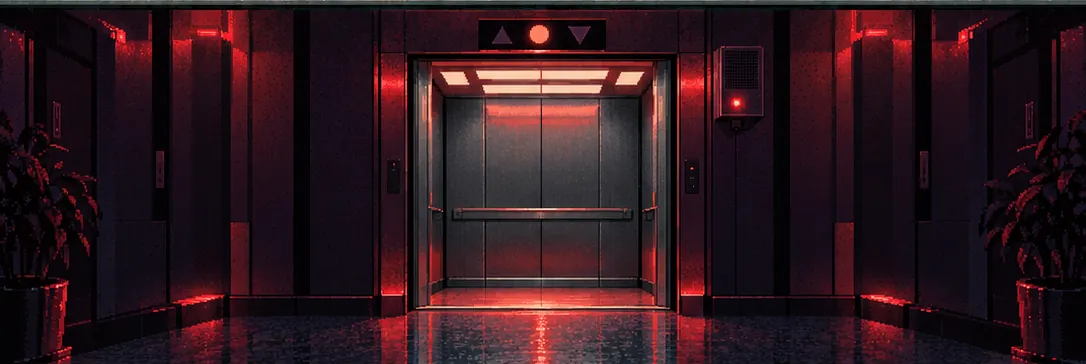
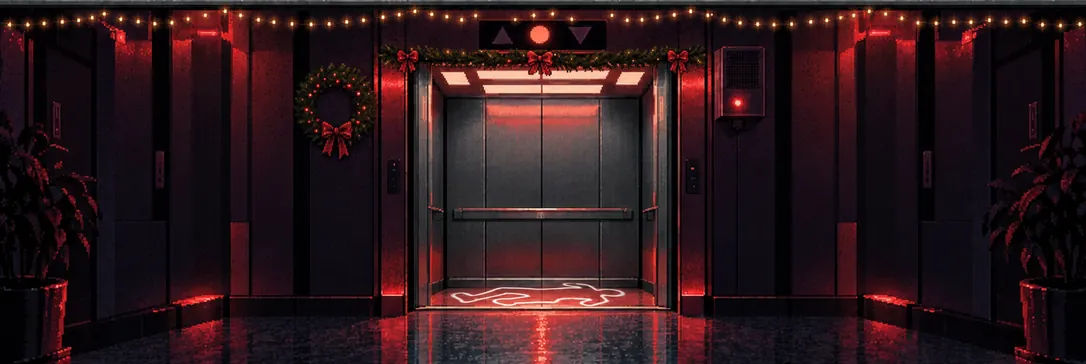
web, game: the captain's office computer on the title screen, a body outline and decorations in the incident elevator, and the Cocoa Hour as just the holiday party, not a quota reward

diff --git a/web/SPOILERS-content.js b/web/SPOILERS-content.js
@@ -1,7 +1,6 @@
 // SPOILERS: generated from game/SPOILERS-content/ by web/build.py. Don't edit by hand.
 // The reveal is base64-encoded JSON; the page decodes it only after the player accuses.
 window.DJ_CONTENT = {
- "banner": "  T  H  E\n ___   ___  ___  ___    _    _  _  _____        _    _    ____  ____\n|   \\ | __|| __||_ _|  /_\\  | \\| ||_   _|    _ | |  /_\\  |_  / |_  /\n| |) || _| | _|  | |  / _ \\ | .` |  | |     | || | / _ \\  / /   / /\n|___/ |___||_|  |___|/_/ \\_\\|_|\\_|  |_|      \\__/ /_/ \\_\\/___| /___|\n                                                  I N C I D E N T",
  "suspects": {
   "agnes": "Agnes",
   "bertram": "Bertram",
@@ -26,7 +25,7 @@ window.DJ_CONTENT = {
  },
  "coldOpen": {
   "title": "The Defiant Jazz Incident",
-  "body": "**We need your help to solve a murder.**\n\n*Tonight, our night supervisor, Mr. Hale, was found dead in the elevator, and the woman standing over him was holding a cable.*\n\n> Incident File SF-1008\n> KIPSAKE · SLEEP FLOOR · OFFICE OF FLOOR SECURITY\n> Subject: Death of Mr. Reginald Hale, Night Supervisor\n\n**What happened that night**\n\n- **02:58.** Three sleepwalkers work the night shift on Kipsake's Sleep Floor: Agnes, Bertram and Clement, the clerks of Deep Sleep Operations. They met their quota for the quarter. Their reward was the end-of-year Cocoa Hour, the floor's holiday party: a middle-of-the-night break to sit together and drink hot cocoa. It started at 03:00 in Break Room 2, with the three of them and Mr. Hale, the night supervisor, who stays awake all shift.\n- **03:02.** The power went out. The emergency speakers came on, but instead of the lullaby, they played jazz. The jazz woke everyone up. For five minutes, Agnes, Bertram and Clement were their ordinary waking selves, in the dark, somewhere they'd never seen.\n- **03:07.** The power came back and the jazz stopped. All three fell back asleep, and their sleepwalking selves remembered none of it. Mr. Hale was found strangled in the elevator, which was stopped at the Sleep Floor with its doors open. Agnes was in the elevator with him, holding a cable.\n\nThere are three suspects: **Agnes**, **Bertram** and **Clement**.\n\n**Your role**\n\nYou're the investigator. Kipsake wants a name before dawn, when the shift wakes up. Your job is to name who killed Mr. Hale and explain why.\n\n- **ask**: Your AI has read Kipsake's records, and nothing else. It hasn't seen the interviews, the leads you follow, or anything you find. If you want it to know something, tell it.\n- **investigate**: you can follow up three leads, in order: a crime scene, a visit to a suspect at home, and one last interview. Each time, you pick one of three options, and you'll only see the one you pick. Use them whenever you like, between questions to the AI. You can accuse before you've used them all.\n- **accuse**: when you're ready, name the killer and say why.",
+  "body": "**We need your help to solve a murder.**\n\n*Tonight, our night supervisor, Mr. Hale, was found dead in the elevator, and the woman standing over him was holding a cable.*\n\n> Incident File SF-1008\n> KIPSAKE · SLEEP FLOOR · OFFICE OF FLOOR SECURITY\n> Subject: Death of Mr. Reginald Hale, Night Supervisor\n\n**What happened that night**\n\n- **03:00.** Three sleepwalkers work the night shift on Kipsake's Sleep Floor: Agnes, Bertram and Clement, the clerks of Deep Sleep Operations. Tonight was the end-of-year Cocoa Hour, the floor's holiday party: a middle-of-the-night break to sit together and drink hot cocoa. It started in Break Room 2, with the three of them and Mr. Hale, the night supervisor, who stays awake all shift.\n- **03:02.** The power went out. The emergency speakers came on, but instead of the lullaby, they played jazz. The jazz woke everyone up. For five minutes, Agnes, Bertram and Clement were their ordinary waking selves, in the dark, somewhere they'd never seen.\n- **03:07.** The power came back and the jazz stopped. All three fell back asleep, and their sleepwalking selves remembered none of it. Mr. Hale was found strangled in the elevator, which was stopped at the Sleep Floor with its doors open. Agnes was in the elevator with him, holding a cable.\n\nThere are three suspects: **Agnes**, **Bertram** and **Clement**.\n\n**Your role**\n\nYou're the investigator. Kipsake wants a name before dawn, when the shift wakes up. Your job is to name who killed Mr. Hale and explain why.\n\n- **ask**: Your AI has read Kipsake's records, and nothing else. It hasn't seen the interviews, the leads you follow, or anything you find. If you want it to know something, tell it.\n- **investigate**: you can follow up three leads, in order: a crime scene, a visit to a suspect at home, and one last interview. Each time, you pick one of three options, and you'll only see the one you pick. Use them whenever you like, between questions to the AI. You can accuse before you've used them all.\n- **accuse**: when you're ready, name the killer and say why.",
   "meta": {}
  },
  "testimonyIntro": "First, your interviews. You spoke to all three suspects soon after the power came back. Here's what each of them told you.",
@@ -194,7 +193,7 @@ window.DJ_CONTENT = {
    },
    {
     "image": "scene-break-room",
-    "body": "02:58. Agnes, Bertram and Clement, the three clerks of Deep Sleep Operations, are sleepwalkers on the Sleep Floor's night shift. They met their quota for the quarter.\nTheir reward was the end-of-year Cocoa Hour, the floor's holiday party: a middle-of-the-night break to sit together and drink hot cocoa. It started at 03:00, with Mr. Hale, the night supervisor, who stays awake all shift.",
+    "body": "Agnes, Bertram and Clement, the three clerks of Deep Sleep Operations, are sleepwalkers on the Sleep Floor's night shift.\nTonight was the end-of-year Cocoa Hour, the floor's holiday party: a middle-of-the-night break to sit together and drink hot cocoa. It started at 03:00, with Mr. Hale, the night supervisor, who stays awake all shift.",
     "hotspots": [
      {
       "label": "The emergency speaker",
@@ -230,7 +229,7 @@ window.DJ_CONTENT = {
       "label": "Cocoa",
       "x": 94,
       "y": 37,
-      "body": "The reward for meeting the quarter's quota: hot cocoa and a holiday break to sit together."
+      "body": "The floor's holiday party: hot cocoa from the urn and a break to sit together."
      }
     ],
     "where": "Break Room 2 · Sleep Floor · 03:00",
@@ -518,6 +517,10 @@ window.DJ_CONTENT = {
   ]
  },
  "pictures": {
+  "title-screen": [
+   1536,
+   864
+  ],
   "title-splash": [
    1536,
    864
@@ -592,5 +595,5 @@ window.DJ_CONTENT = {
   ]
  },
  "toCome": [],
[2 lines of base64/hex data omitted]
 };

diff --git a/web/style.css b/web/style.css
@@ -173,32 +173,17 @@ p { margin: 0 0 10px; }
 /* ---- title -------------------------------------------------------------------- */
 
 .title-view { min-height: 60vh; display: flex; flex-direction: column; justify-content: center; }
-.banner {
-  margin: 0 0 12px; overflow-x: auto;
-  font-family: var(--mono); font-size: clamp(9px, 1.55vw, 15px); line-height: 1.15;
-  color: #f2b45c;
-}
-/* The key art, a dark corridor whose left half is left quiet for the title */
+/* The key art, the title on an office computer's screen, with the lede and Start under it.
+   It's a painting, not pixel art, so it scales smoothly. */
 .title-art {
-  position: relative; container-type: inline-size; max-width: 1164px;
+  max-width: 1164px;
   border: 1px solid #75887a; background: var(--c-bg);
 }
-.title-art img { display: block; width: 100%; height: auto; image-rendering: pixelated; }
+.title-art img { display: block; width: 100%; height: auto; }
 @media (prefers-reduced-motion: no-preference) {
   .title-art img { animation: scene-in 0.8s ease-out; }
 }
-@media (min-width: 641px) {
-  .title-text {
-    position: absolute; top: 0; bottom: 0; left: 4%; width: 48%;
-    display: flex; flex-direction: column; justify-content: center;
-  }
-  .title-text .banner { overflow: visible; font-size: 1.12cqw; }
-  .title-text .lede { color: #d8d4c4; font-size: max(13px, 1.6cqw); }
-}
-@media (max-width: 640px) {
-  .title-text { padding: 16px; }
-  .title-text .lede { color: var(--c-muted); }
-}
+.title-text { padding: 16px; }
 
 /* ---- panels --------------------------------------------------------------------- */
 /* One full-image panel: the picture, where we are and the headline over it, the text under it */

diff --git a/web/game.js b/web/game.js
@@ -57,7 +57,7 @@
   // size as name: [width, height]; a panel whose picture is still to come (C.toCome) shows a
   // placeholder the same shape. Alt text is empty: the story stays in the HTML, and words drawn
   // in a picture are in its panel's transcript.
-  var TITLE_ART = "title-splash";
+  var TITLE_ART = "title-screen";
   var REVEAL_ART = "scene-reveal";
   var PORTRAITS = { agnes: "portrait-agnes", bertram: "portrait-bertram", clement: "portrait-clement" };
   var LEAD_ICONS = ["search", "home", "chat"];
@@ -623,12 +623,11 @@
 
   views.title = function () {
     var resume = state.chosen.length > 0;
-    // The title sits on the key art's quiet left half, or under it on a narrow screen.
+    // The key art carries the title on its screen, so the lede and Start go under it.
     return el("section", { class: "title-view" }, el("div", { class: "title-art" }, [
       picture(TITLE_ART),
       el("div", { class: "title-text" }, [
         el("h1", { class: "sr-only" }, "The Defiant Jazz Incident"),
-        el("pre", { class: "banner", "aria-hidden": "true" }, C.banner),
         el("p", { class: "lede" }, "An observability murder mystery on the Sleep Floor at Kipsake."),
         el("div", { class: "actions" }, [
           button([el("span", null, resume ? "Continue" : "Start"), icon("next")],

diff --git a/web/build.py b/web/build.py
@@ -69,6 +69,7 @@ SCENES = (
 # sheet scenes and the broadcast scene that newer art replaced stay in web/assets/, unused, so
 # they can be put back by naming them here.
 IMAGES = {
+    "title-screen": (1536, 864),
     "title-splash": (1536, 864),
     "flyer-kipsake": (800, 1200),
     "scene-break-room": (1200, 400),
@@ -90,7 +91,7 @@ IMAGES = {
 }
 # The title's key art goes with the title screen and the reveal's picture with the verdict, not
 # with a card. A panel may show them too.
-TITLE_ART = "title-splash"
+TITLE_ART = "title-screen"
 REVEAL_ART = "scene-reveal"
 # Lossy WebP: the sheet is painted, not drawn on a pixel grid, so lossless is 5 to 10 times
 # larger for no visible gain. The page scales the scenes with image-rendering: pixelated.
@@ -120,7 +121,6 @@ def data(cards=None):
     cards = cards or content.load()
     reveal = json.dumps([_card(c) for c in cards.reveal.cards], ensure_ascii=False)
     return {
-        "banner": engine.BANNER,
         "suspects": content.SUSPECTS,
         "leadKinds": engine.LEAD_KIND,
         "leadShort": engine.DECISION_SHORT,

diff --git a/game/ai-evidence/case-bundle.md b/game/ai-evidence/case-bundle.md
@@ -7,7 +7,7 @@ KIPSAKE · SLEEP FLOOR · OFFICE OF FLOOR SECURITY
 
 ## Summary
 
-At 02:58 the Deep Sleep Operations (DSO) department reached its quarterly quota and was awarded a Cocoa Hour, a quiet quota reward with cocoa from the urn, in the middle of the night shift. It began at 03:00 in Break Room 2 and was attended by all three DSO clerks and Mr. Hale.
+The Cocoa Hour is the Sleep Floor's end-of-year holiday party, a quiet party with cocoa from the urn, in the middle of the night shift. It began at 03:00 in Break Room 2 and was attended by all three Deep Sleep Operations (DSO) clerks and Mr. Hale.
 
 At approximately 03:02 the Sleep Floor lost main power. Power was restored at 03:07. At 03:07 Mr. Hale was found dead in the elevator car, which was held at the Sleep Floor. The doors were open.
 
@@ -31,7 +31,7 @@ Floor Security has named three persons of interest, all from DSO:
 | 02-badge-and-door-events.md | Door readers and badge journeys, the two weeks up to the incident |
 | 03-chat.md | Floor chat, the two weeks up to the incident |
 | 04-metrics.md | Selected time series (CSV) |
-| 05-system-logs.md | Sleep rings, power, outlets, quota rewards, emergency speakers, elevator, cameras, security, medical |
+| 05-system-logs.md | Sleep rings, power, outlets, floor events, emergency speakers, elevator, cameras, security, medical |
 | 06-ambient-mic-transcripts.md | Ambient-microphone transcripts, 03:02 to 03:10 (buffered during the outage, live after it) |
 | 07-records.md | Personnel, detention, Hush Room notes, supervisor feedback, perks, keystroke drafts, calendar |
 
@@ -329,7 +329,7 @@ Floor chat messages. Direct messages show `to=<badge>`; channel messages show `t
 2026-10-07T02:52:32 source=chat from=bertram to=#deep-sleep-operations msg="anyone have a spare eye mask"
 2026-10-07T03:39:30 source=chat from=bertram to=#deep-sleep-operations msg="is it cocoa day or is that next week"
 2026-10-07T04:03:28 source=chat from=clement to=#deep-sleep-operations msg="4 minutes to break"
-2026-10-07T21:40:17 source=chat from=bertram to=#deep-sleep-operations msg="fyi Mr. H says he'll be stepping out during the Cocoa Hour, if we ever get one lol. something at the elevator"
+2026-10-07T21:40:17 source=chat from=bertram to=#deep-sleep-operations msg="fyi Mr. H says he'll be stepping out during the Cocoa Hour tonight. something at the elevator"
 2026-10-07T21:40:18 source=chat from=bertram to=#deep-sleep-operations msg="Clement, did you finish 6?"
 2026-10-07T21:40:52 source=chat from=agnes to=#deep-sleep-operations msg="the elevator? why the elevator"
 2026-10-07T21:41:30 source=chat from=bertram to=#deep-sleep-operations msg="dunno. ask him"
@@ -854,7 +854,7 @@ ts,metric,labels,value,ingested_at
 
 # System Logs
 
-Logs from the sleep rings, floor power, smart outlets, the quota-reward system, the emergency speaker controller, the elevator controller, camera analytics, Floor Security and the medical office. A non-empty `ingested_at` means the record was buffered and uploaded late.
+Logs from the sleep rings, floor power, smart outlets, the floor events calendar, the emergency speaker controller, the elevator controller, camera analytics, Floor Security and the medical office. A non-empty `ingested_at` means the record was buffered and uploaded late.
 
 ```text
 2026-09-24T00:36:55 source=ring employee=agnes level=info msg="ring lock nominal"
@@ -906,8 +906,8 @@ Logs from the sleep rings, floor power, smart outlets, the quota-reward system, 
 2026-10-07T23:06:35 source=ring employee=agnes level=warn msg="lock drift (0.10), self-corrected"
 2026-10-07T23:29:03 source=ring employee=agnes level=info msg="ring lock nominal"
 2026-10-08T02:20:20 source=ring employee=clement level=warn msg="lock drift (0.09), self-corrected"
-2026-10-08T02:58:12 source=quota-reward level=info msg="Deep Sleep Operations quota reached. Cocoa Hour awarded."
-2026-10-08T03:00:00 source=quota-reward level=info msg="Cocoa Hour started" room=break-room-2
+2026-10-08T02:58:12 source=floor-events level=info msg="Holiday party at 03:00: the end-of-year Cocoa Hour" room=break-room-2
+2026-10-08T03:00:00 source=floor-events level=info msg="Cocoa Hour started" room=break-room-2
 2026-10-08T03:00:31 source=printer device=dso-printer-1 level=error msg="paper jam tray 2"
 2026-10-08T03:01:30 source=elevator level=info msg="door open" car=1 floor=SF
 2026-10-08T03:01:34 source=elevator level=info msg="door close" car=1 floor=SF
@@ -1039,5 +1039,5 @@ personnel id=hale name="Mr. Hale" role="Night Supervisor" sleepwalker=false
 
 === CALENDAR (night of 2026-10-07) ===
 2026-10-07T21:15:00 calendar owner=hale title="1:1 Bertram"
-2026-10-08T03:00:00 calendar owner=hale title="Cocoa Hour supervision (DSO), if earned"
+2026-10-08T03:00:00 calendar owner=hale title="Cocoa Hour supervision (DSO holiday party)"
 ```

diff --git a/README.md b/README.md
@@ -2,7 +2,7 @@
 
 An observability murder mystery set on the Sleep Floor at Kipsake.
 
-Kipsake rents your sleep: at night its Dreamers sleep in pods while their sleepwalking selves work the floor. During the Cocoa Hour, a middle-of-the-night quota reward in Break Room 2, the floor loses power for five minutes. When the power comes back, the night supervisor, Mr. Reginald Hale, is dead in the elevator. Kipsake recorded everything it could: badges, doors, chat, sleep rings, power, microphones, cameras, sleep bands, personnel records. Your job is to work out who killed him.
+Kipsake rents your sleep: at night its Dreamers sleep in pods while their sleepwalking selves work the floor. During the Cocoa Hour, the floor's middle-of-the-night holiday party in Break Room 2, the floor loses power for five minutes. When the power comes back, the night supervisor, Mr. Reginald Hale, is dead in the elevator. Kipsake recorded everything it could: badges, doors, chat, sleep rings, power, microphones, cameras, sleep bands, personnel records. Your job is to work out who killed him.
 
 This repo contains the telemetry and the tools to load it into Grafana: Loki for logs, Prometheus or Mimir for metrics, and Tempo for traces. You can load it into Grafana Cloud or a local Docker stack, then investigate with Grafana, Grafana Assistant, an MCP server, `gcx`, or the AI agent of your choice. It also has the game itself, in a terminal version for demos and playtests and a web version to embed in a Grafana dashboard.
 
@@ -65,7 +65,7 @@ Then open <http://localhost:8080/>. [`web/README.md`](web/README.md) covers embe
 | `telemetry/door-and-badge-events.log` | Door readers, badge journeys and trace spans |
 | `telemetry/chat.log` | Floor chat |
 | `telemetry/metrics.csv` | Time series (`ts,metric,labels,value,ingested_at`) |
-| `telemetry/system.log` | Sleep rings, power, outlets, quota rewards, emergency speakers, elevator, cameras, security, medical |
+| `telemetry/system.log` | Sleep rings, power, outlets, floor events, emergency speakers, elevator, cameras, security, medical |
 | `telemetry/ambient-mic.log` | Ambient compliance-microphone transcripts, 03:02 to 03:10 (buffered during the outage, live after it) |
 | `telemetry/records.log` | Personnel, detention, Hush Room, supervisor feedback, perks, keystroke drafts, calendar |
 | `loader/` | `load.py` sends everything over OTLP; `test_load.py` checks its time shift |

diff --git a/game/SPOILERS-content/SPOILERS-reveal.md b/game/SPOILERS-content/SPOILERS-reveal.md
@@ -33,7 +33,7 @@ That night, three people had three separate plans. None of them knew about the o
 
 - **Agnes wants Peggy to find her notes.** Agnes, the sleepwalker, hides notes for her waking self, Peggy, in the elevator's emergency phone panel. The night before, she changes the emergency speakers' fail-safe track from the lullaby to *Defiant Jazz*. The next time the power goes out, the jazz will wake Peggy, who will walk toward the elevator's emergency light and find the notes.
 - **Bertram wants a waffle.** During the Cocoa Hour he sneaks off to the supply room to use his banned waffle iron. It trips the floor's main breaker. It's an accident.
-- **Clement wants Hale alone.** Clement is *lucid*: he's the same person at work and at home, and remembers both lives. Hale signed off on the procedure that killed Clement's sister, June. A chat message from Bertram told Clement that Hale would slip off to the elevator during a Cocoa Hour. So Clement times the team's last quota file to trigger one.
+- **Clement wants Hale alone.** Clement is *lucid*: he's the same person at work and at home, and remembers both lives. Hale signed off on the procedure that killed Clement's sister, June. A chat message from Bertram told Clement that Hale would slip off to the elevator during the Cocoa Hour, the floor's holiday party. So Clement waits for the party.
 
 At 03:02 the three plans collide. The breaker trips, the speakers play *Defiant Jazz*, and every sleepwalker wakes up as a stranger in the dark. Except Clement. He's still himself, and now the dark hides him. He leaves his badge on the chair by the speaker, where the jazz shakes the chair so the badge looks like someone sitting still, and follows Peggy toward the elevator's light. In corridor E he treads on Bertram's dazed waking self ("Sorry, Waffles"). At the elevator, Hale grabs Peggy's wrist ("You can't be here") while Clement waits in the dark of the lobby. She pulls free and runs. Hale picks up the elevator's emergency phone, and seconds later Clement walks in and strangles him. Clement goes back to the speaker and puts his badge back on. Peggy wanders back toward the light, finds Hale and pulls the cable off his neck. At 03:07 the power comes back and everyone falls asleep again. Agnes the sleepwalker comes to in the elevator, holding the cable.
 

diff --git a/CASE-BRIEF.md b/CASE-BRIEF.md
@@ -7,7 +7,7 @@ KIPSAKE · SLEEP FLOOR · OFFICE OF FLOOR SECURITY
 
 ## Summary
 
-At 02:58 the Deep Sleep Operations (DSO) department reached its quarterly quota and was awarded a Cocoa Hour, a quiet quota reward with cocoa from the urn, in the middle of the night shift. It began at 03:00 in Break Room 2 and was attended by all three DSO clerks and Mr. Hale.
+The Cocoa Hour is the Sleep Floor's end-of-year holiday party, a quiet party with cocoa from the urn, in the middle of the night shift. It began at 03:00 in Break Room 2 and was attended by all three Deep Sleep Operations (DSO) clerks and Mr. Hale.
 
 At approximately 03:02 the Sleep Floor lost main power. Power was restored at 03:07. At 03:07 Mr. Hale was found dead in the elevator car, which was held at the Sleep Floor. The doors were open.
 
@@ -33,7 +33,7 @@ These are raw exports, too large to read end to end. Query them by searching (fo
 | door-and-badge-events.log | Door readers, badge journeys and trace spans, the 14 weeks up to the incident |
 | chat.log | Floor chat |
 | metrics.csv | Time series: ts,metric,labels,value,ingested_at |
-| system.log | Sleep rings, power, outlets, quota rewards, emergency speakers, elevator, cameras, security, medical |
+| system.log | Sleep rings, power, outlets, floor events, emergency speakers, elevator, cameras, security, medical |
 | ambient-mic.log | Ambient-microphone transcripts, 03:02 to 03:10 (buffered during the outage, live after it) |
 | records.log | Personnel, detention, Hush Room, supervisor feedback, perks, keystroke drafts, calendar |
 

diff --git a/game/SPOILERS-content/scene-art.md b/game/SPOILERS-content/scene-art.md
@@ -46,7 +46,7 @@ image: flyer-kipsake
 
 ## The incident
 card: The Defiant Jazz Incident
-source: ea9f1351
+source: 11617c24
 image: scene-3-elevator
 where: Kipsake · Sleep Floor
 headline: We need your help to solve a murder.
@@ -67,8 +67,8 @@ Where Mr. Hale was found.
 image: scene-break-room
 where: Break Room 2 · Sleep Floor · 03:00
 headline: The Cocoa Hour.
-02:58. Agnes, Bertram and Clement, the three clerks of Deep Sleep Operations, are sleepwalkers on the Sleep Floor's night shift. They met their quota for the quarter.
-Their reward was the end-of-year Cocoa Hour, the floor's holiday party: a middle-of-the-night break to sit together and drink hot cocoa. It started at 03:00, with Mr. Hale, the night supervisor, who stays awake all shift.
+Agnes, Bertram and Clement, the three clerks of Deep Sleep Operations, are sleepwalkers on the Sleep Floor's night shift.
+Tonight was the end-of-year Cocoa Hour, the floor's holiday party: a middle-of-the-night break to sit together and drink hot cocoa. It started at 03:00, with Mr. Hale, the night supervisor, who stays awake all shift.
 
 ## The emergency speaker
 at: 36, 8
@@ -92,7 +92,7 @@ Clement, the third DSO clerk. Later, he'll call it a wonderful night, until it w
 
 ## Cocoa
 at: 94, 37
-The reward for meeting the quarter's quota: hot cocoa and a holiday break to sit together.
+The floor's holiday party: hot cocoa from the urn and a break to sit together.
 
 ## The power cut
 image: scene-break-room

diff --git a/game/SPOILERS-content/cold-open.md b/game/SPOILERS-content/cold-open.md
@@ -30,7 +30,7 @@ Sweet dreams, Dreamers.
 
 **What happened that night**
 
-- **02:58.** Three sleepwalkers work the night shift on Kipsake's Sleep Floor: Agnes, Bertram and Clement, the clerks of Deep Sleep Operations. They met their quota for the quarter. Their reward was the end-of-year Cocoa Hour, the floor's holiday party: a middle-of-the-night break to sit together and drink hot cocoa. It started at 03:00 in Break Room 2, with the three of them and Mr. Hale, the night supervisor, who stays awake all shift.
+- **03:00.** Three sleepwalkers work the night shift on Kipsake's Sleep Floor: Agnes, Bertram and Clement, the clerks of Deep Sleep Operations. Tonight was the end-of-year Cocoa Hour, the floor's holiday party: a middle-of-the-night break to sit together and drink hot cocoa. It started in Break Room 2, with the three of them and Mr. Hale, the night supervisor, who stays awake all shift.
 - **03:02.** The power went out. The emergency speakers came on, but instead of the lullaby, they played jazz. The jazz woke everyone up. For five minutes, Agnes, Bertram and Clement were their ordinary waking selves, in the dark, somewhere they'd never seen.
 - **03:07.** The power came back and the jazz stopped. All three fell back asleep, and their sleepwalking selves remembered none of it. Mr. Hale was found strangled in the elevator, which was stopped at the Sleep Floor with its doors open. Agnes was in the elevator with him, holding a cable.
 
